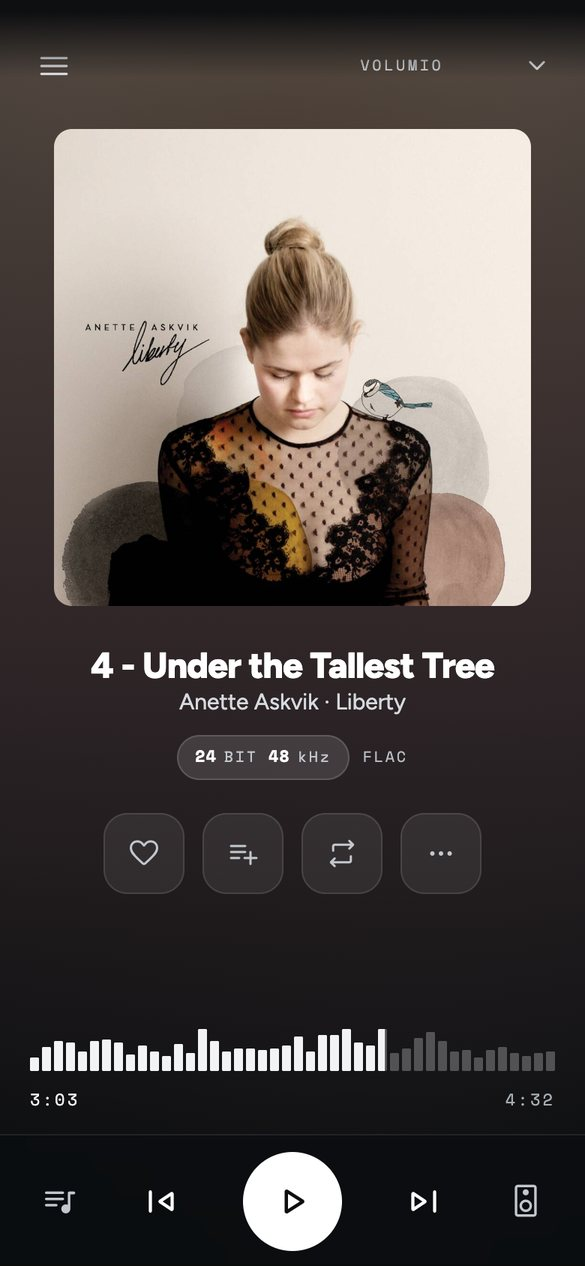
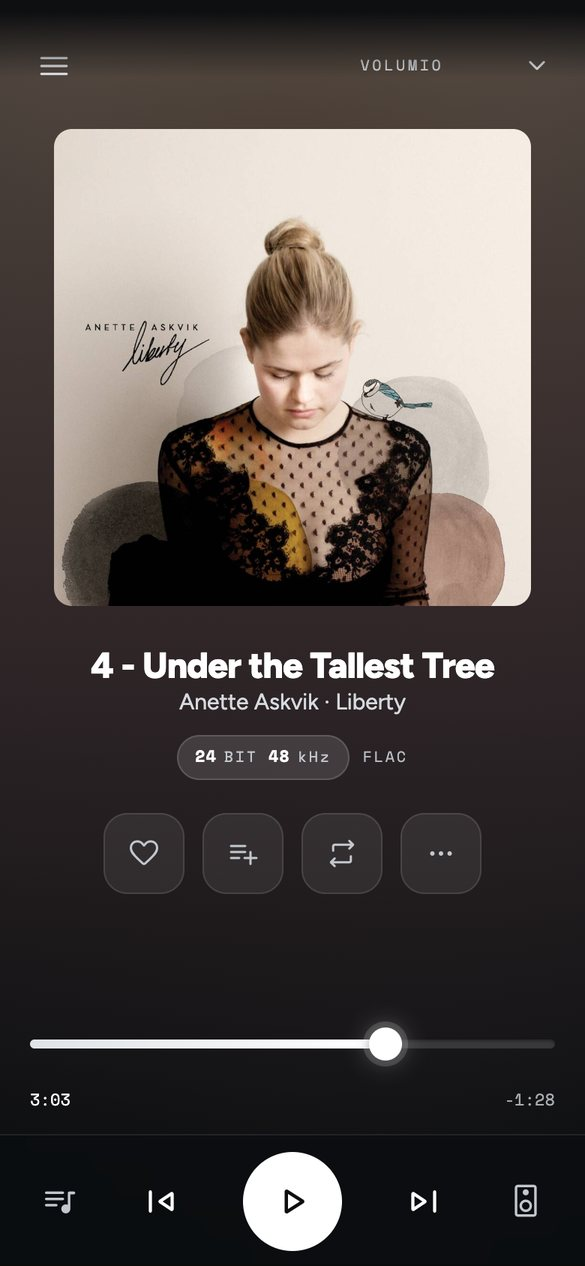
docs: seek bar replaces the waveform in the text and the screenshots

Changed region(s): [[0.0308, 0.8009, 0.9538, 0.8934]]

diff --git a/README.md b/README.md
@@ -11,7 +11,7 @@ Artwork One turns your [Volumio](https://volumio.com) player into something you 
 Beneath the new look sits everything you already rely on. Every source, every setting and every plugin Volumio offers is still there, with nothing hidden and nothing taken away. It lives on your player, installs with a single command, and feels at home wherever you meet your music: on the phone in your hand, a tablet on the sofa, a desktop browser, or a small touch screen next to your DAC.
 
 - **Made for listening in high resolution.** Bit depth, sample rate, format and source, shown with pride instead of tucked away.
-- **A waveform instead of a progress bar.** Glide through a track with a finger, a mouse or the arrow keys.
+- **Seeking that invites a touch.** A generous track with a glowing handle: drag it with a finger or a mouse, or step by five seconds with the arrow keys.
 - **One fluid design.** No fixed breakpoints: it reshapes itself continuously for any screen, down to edge-to-edge on an iPhone.
 - **Free to try.** One line to install, one click in Settings to switch back.
 
@@ -43,12 +43,12 @@ Beneath the new look sits everything you already rely on. Every source, every se
 **Now Playing**
 - Large cover next to the title, artist and album, sized to fill the screen at any window size.
 - The real format as Volumio reports it: bit depth, sample rate, file type and streaming service (for example *24 BIT 192 kHz · FLAC · QOBUZ*), and the path from the source to the output device.
-- A waveform scrubber across the full width with a playhead and elapsed, remaining and total time. Drag it with the mouse or a finger, or use the arrow keys.
+- A seek bar across the full width, with elapsed, remaining and total time. Drag the handle with the mouse or a finger, or step through the track with the arrow keys.
 - *Up next* thumbnails that start the next tracks directly.
 - Opens from the mini player with a slide-up and closes back to where you were.
 
 **Mini player**
-- Cover, title, artist and a compact quality line (*24/192 · FLAC*), transport, waveform, volume, the zone and output picker, and the queue button with the number of tracks.
+- Cover, title, artist and a compact quality line (*24/192 · FLAC*), transport, seek bar, volume, the zone and output picker, and the queue button with the number of tracks.
 
 **Queue**
 - A floating panel instead of a separate page: drag to reorder, remove, shuffle, repeat, save as a playlist, clear, and the time the queue ends.
@@ -191,7 +191,6 @@ Volumio's other themes remain in the source tree. This project only builds and p
 
 ## Known limitations
 
-- The waveform is a generated pattern, not the actual audio peaks of the track, because Volumio does not provide peak data. It works as a normal seek bar.
 - The *Bit perfect* badge and the *No resample* step of the signal path are fixed labels. Volumio does not report whether the output is resampled, so they are not measured.
 - Only tested on Volumio 4.x.
 - Artwork One is not part of Volumio's built-in interface list, so installing it needs SSH once.

diff --git a/CHANGELOG.md b/CHANGELOG.md
@@ -4,6 +4,16 @@ All notable changes to this project are documented here. The format is based on
 [Keep a Changelog](https://keepachangelog.com/en/1.1.0/) and this project adheres to
 [Semantic Versioning](https://semver.org/spec/v2.0.0.html).
 
+## [1.1.0] - 2026-09-13
+
+### Changed
+
+- Now Playing, the phone screen and the mini player use a real seek bar with a track, a fill and a draggable handle, in place of the waveform. The waveform was a generated pattern rather than the track's audio peaks, so it showed nothing true about the music. Dragging and the arrow keys (five second steps) work as before.
+
+### Fixed
+
+- Dragging the seek bar on a phone no longer closes Now Playing: the swipe gesture ignores the seek bar again.
+
 ## [1.0.1] - 2026-09-11
 
 ### Fixed
@@ -35,5 +45,6 @@ First public release.
 
 - The interface language was never applied after the socket connection was rebuilt, for example when a MyVolumio address was opened directly, so every text showed its translation key. Volumio's UI settings are now requested again for every new connection.
 
+[1.1.0]: https://github.com/michaltamas/volumio-artwork-theme/releases/tag/v1.1.0
 [1.0.1]: https://github.com/michaltamas/volumio-artwork-theme/releases/tag/v1.0.1
 [1.0.0]: https://github.com/michaltamas/volumio-artwork-theme/releases/tag/v1.0.0
